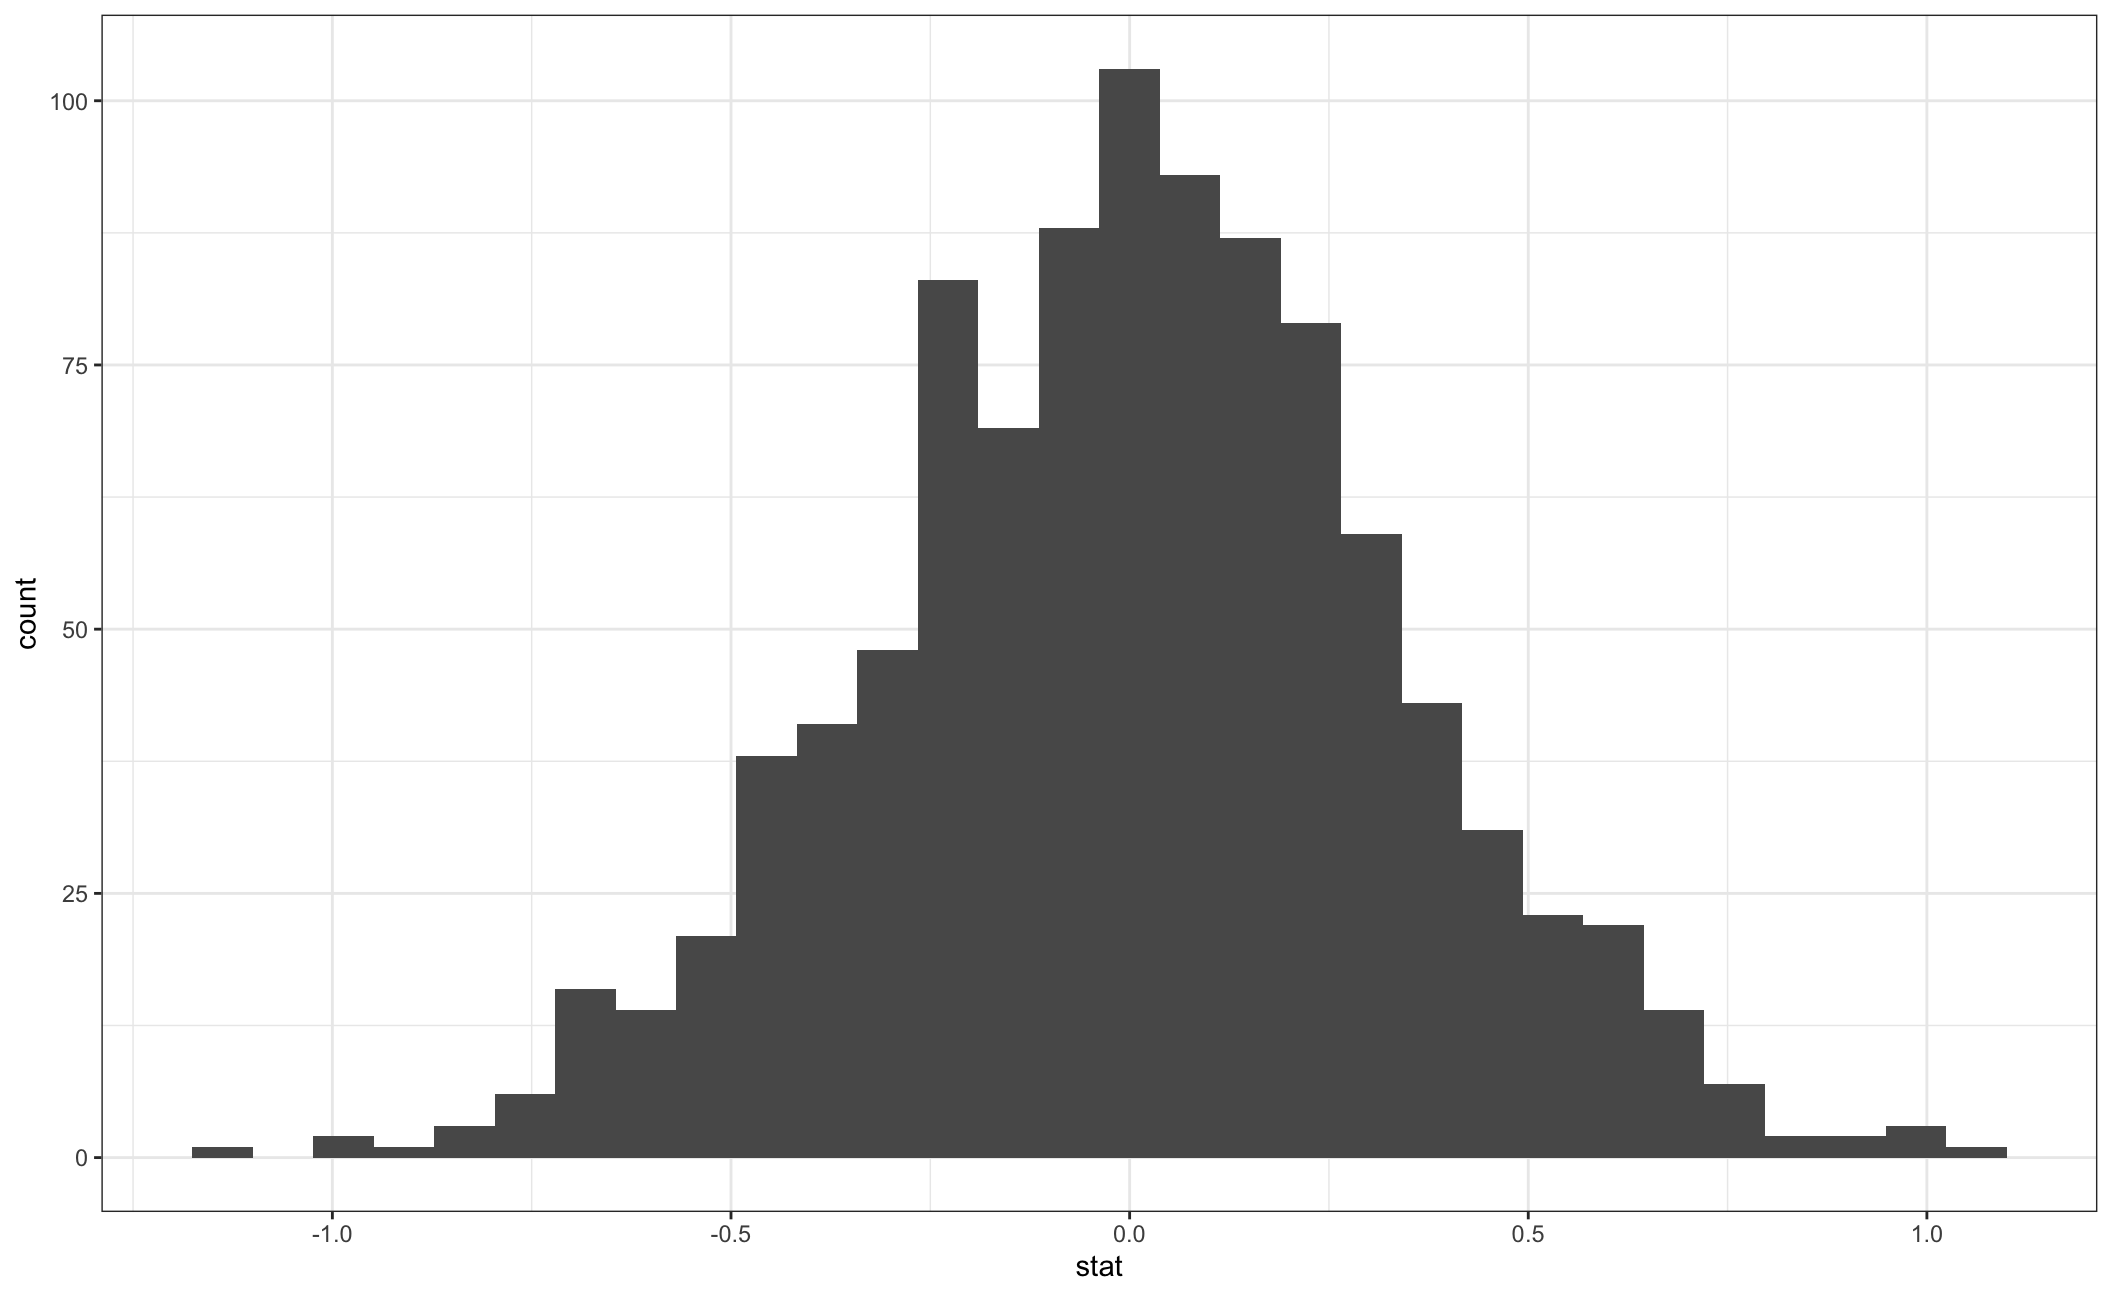
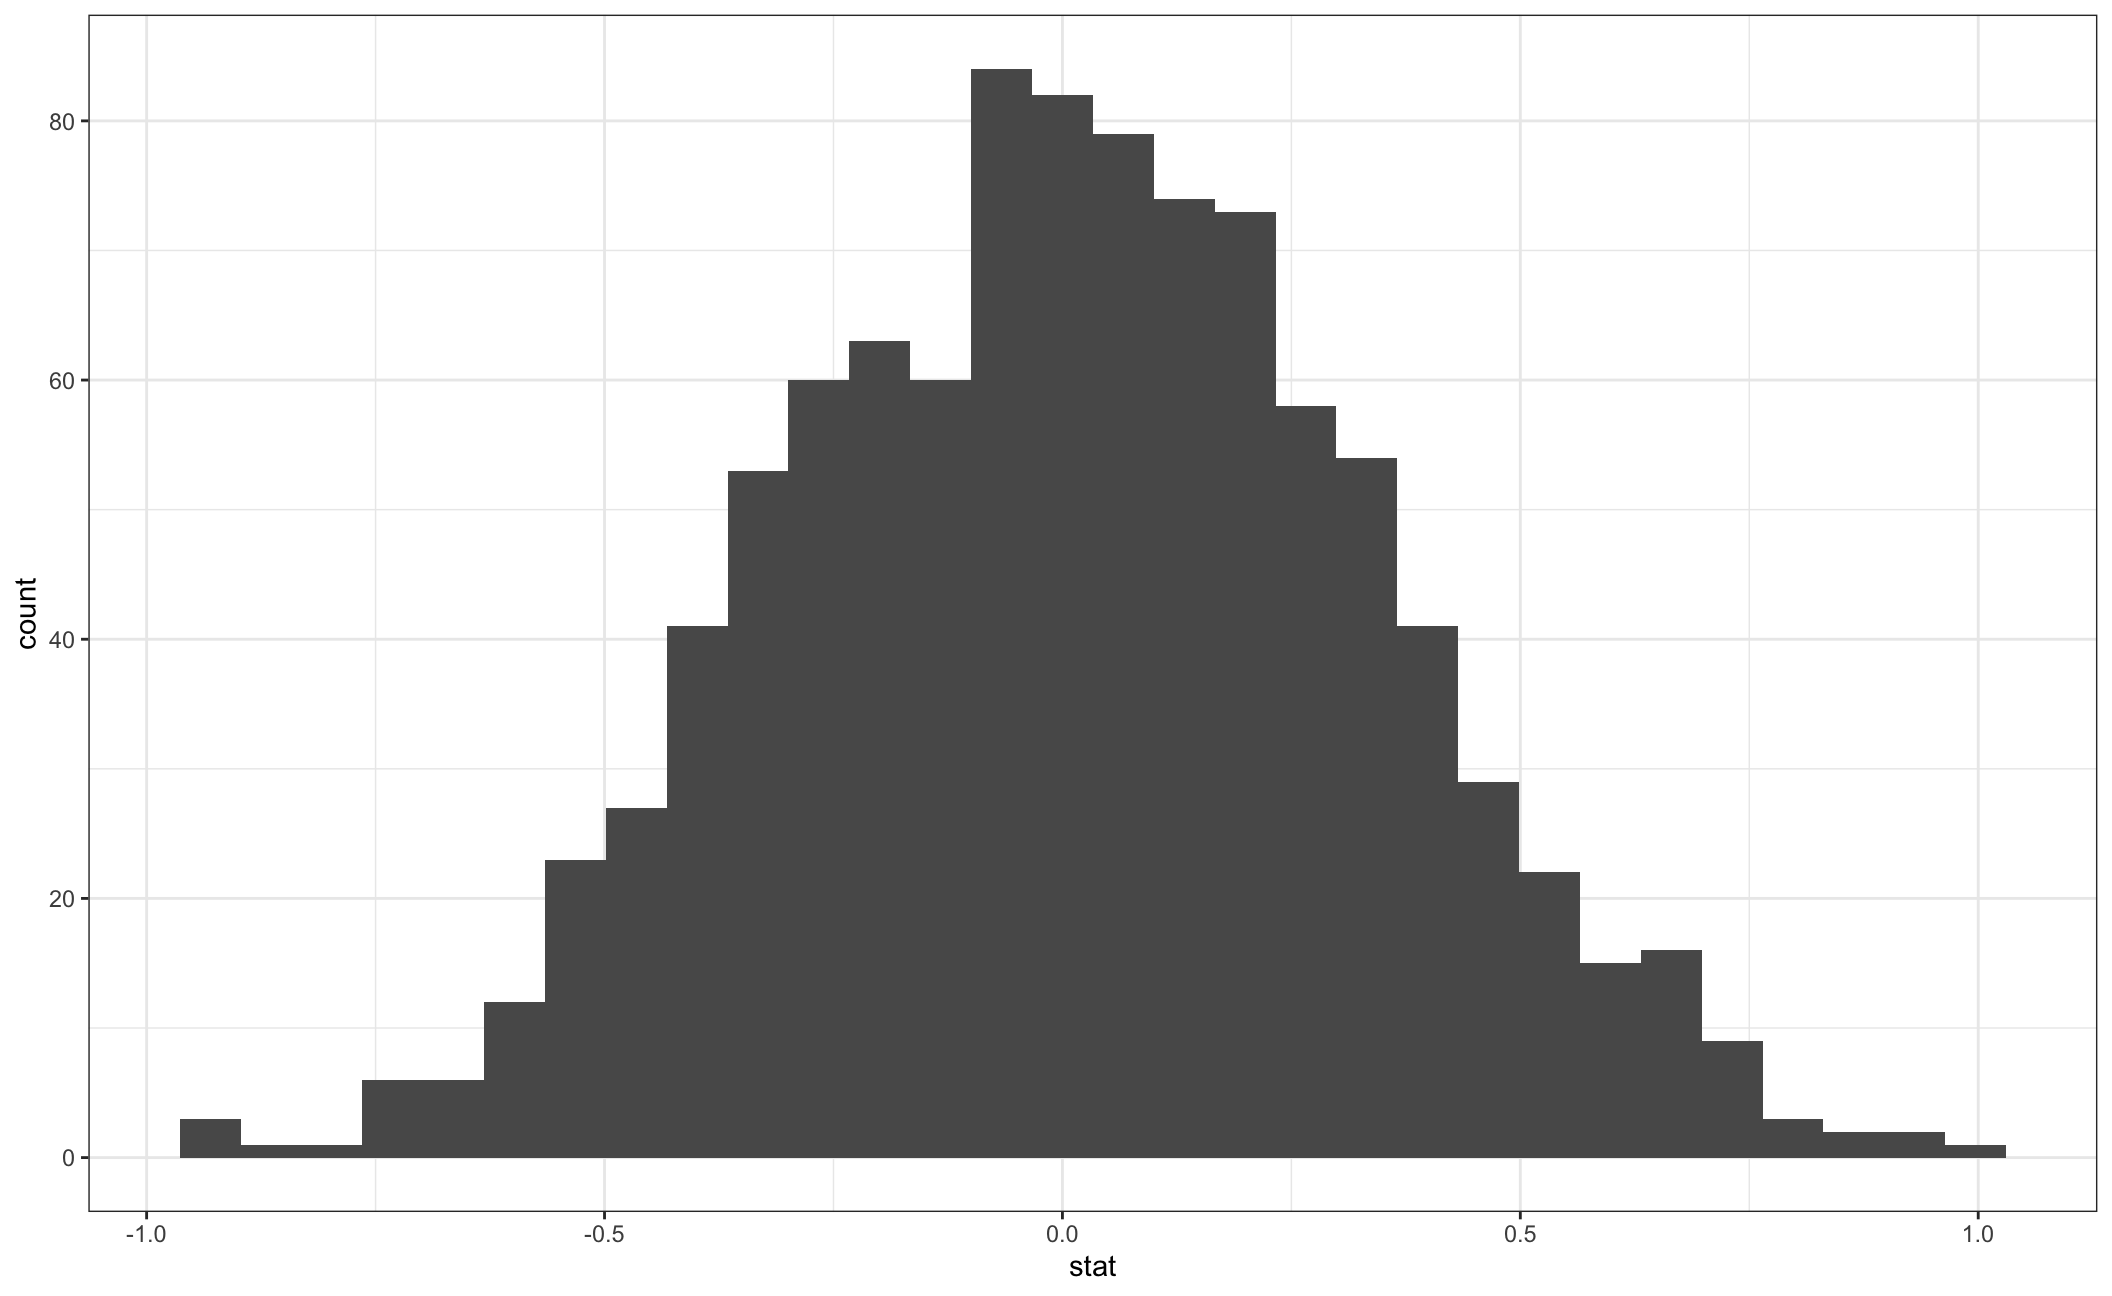
four

diff --git a/content/blogs/hw3_final.html b/content/blogs/hw3_final.html
@@ -5,7 +5,7 @@ categories:
 date: "2017-10-31T21:28:43-05:00"
 description: In this project, I took the challenge to take a further look into how the percentage of GDP compositions change over time among different countries and gain insights about diversity of economy.
 draft: false
-image: ""
+image: gdpback.jpeg
 keywords: ""
 slug: ipsum
 title: Project 3 GDP Global Comparison 
@@ -440,16 +440,16 @@ null_dist</code></pre>
 ## # A tibble: 1,000 × 2
 ##    replicate    stat
 ##        &lt;int&gt;   &lt;dbl&gt;
-##  1         1  0.444 
-##  2         2 -0.223 
-##  3         3 -0.431 
-##  4         4 -0.448 
-##  5         5  0.345 
-##  6         6 -0.177 
-##  7         7  0.139 
-##  8         8 -0.0968
-##  9         9 -0.188 
-## 10        10 -0.575 
+##  1         1 -0.199 
+##  2         2 -0.194 
+##  3         3  0.168 
+##  4         4  0.0732
+##  5         5  0.113 
+##  6         6 -0.513 
+##  7         7 -0.0538
+##  8         8 -0.0723
+##  9         9  0.520 
+## 10        10 -0.0656
 ## # … with 990 more rows</code></pre>
 <p>Here, <code>hypothesize</code> is used to set the null hypothesis as a test for independence, i.e., that there is no difference between the two population means. In one sample cases, the null argument can be set to <em>point</em> to test a hypothesis relative to a point estimate.</p>
 <p>Also, note that the <code>type</code> argument within generate is set to permute, which is the argument when generating a null distribution for a hypothesis test.</p>
@@ -577,16 +577,16 @@ null_dist1</code></pre>
 ## # A tibble: 1,000 × 2
 ##    replicate    stat
 ##        &lt;int&gt;   &lt;dbl&gt;
-##  1         1 -0.0356
-##  2         2 -0.407 
-##  3         3  0.198 
-##  4         4  0.145 
-##  5         5 -0.555 
-##  6         6 -0.301 
-##  7         7 -0.0144
-##  8         8  0.123 
-##  9         9  0.145 
-## 10        10  0.717 
+##  1         1 -0.0780
+##  2         2  0.187 
+##  3         3  0.0810
+##  4         4 -0.714 
+##  5         5  0.357 
+##  6         6  0.134 
+##  7         7  0.706 
+##  8         8 -0.237 
+##  9         9  0.155 
+## 10        10  0.0598
 ## # … with 990 more rows</code></pre>
 <pre class="r"><code>ggplot(data = null_dist1, aes(x = stat)) +
   geom_histogram()+
@@ -604,7 +604,7 @@ obs_stat1</code></pre>
 <pre><code>## # A tibble: 1 × 1
 ##   p_value
 ##     &lt;dbl&gt;
-## 1   0.008</code></pre>
+## 1   0.024</code></pre>
 </div>
 <div id="omega-group-plc--pay-discrimination" class="section level1">
 <h1>Omega Group plc- Pay Discrimination</h1>

diff --git a/themes/forty/layouts/partials/contact.html b/themes/forty/layouts/partials/contact.html
@@ -2,7 +2,7 @@
     <section id="contact">
         <div class="inner">
             <section>
-                <form method="post" action="https://formspree.io/{{ .Site.Params.Contact.formEmail }}">
+                <form method="post" action="https://formspree.io/{{jchen.mam2022@london.edu }}">
                     <div class="field half first">
                         <label for="name">Name</label>
                         <input type="text" name="name" id="name" />

diff --git a/content/blogs/hw2-twice.html b/content/blogs/hw2-twice.html
@@ -5,7 +5,7 @@ categories:
 date: "2017-10-31T22:26:09-06:00"
 description: In this project, I mainly worked on worldbank data and investigated the correlation of GDP, fertility rate, life expectancy and education level in different countries throughout the world.
 draft: false
-image: ""
+image: ferrate.png
 keywords: ""
 slug: hwtwo
 title: Project 2 Insights on Worldbank Data 

diff --git a/content/blogs/hw1.html b/content/blogs/hw1.html
@@ -5,7 +5,7 @@ categories:
 date: "2017-10-31T22:26:09-05:00"
 description: In this project, I collaborated with five group members and conducted analytics on IBM HR data and Covid Vaccination V.S. Election Results. 
 draft: false
-image: ""
+image: vaxtrump.jpg
 keywords: ""
 slug: magna
 title: Project 1 Covid Vaccination V.S. Election Results

diff --git a/content/blogs/JiayingChen_pre_programme_assignment.html b/content/blogs/JiayingChen_pre_programme_assignment.html
@@ -5,7 +5,7 @@ categories:
 date: "2017-10-31T22:42:51-05:00"
 description: My very first personal project based on R!
 draft: false
-image: ""
+image: purple.jpeg
 keywords: ""
 slug: tempus
 title: Pre-Programme Project MAM 2022
